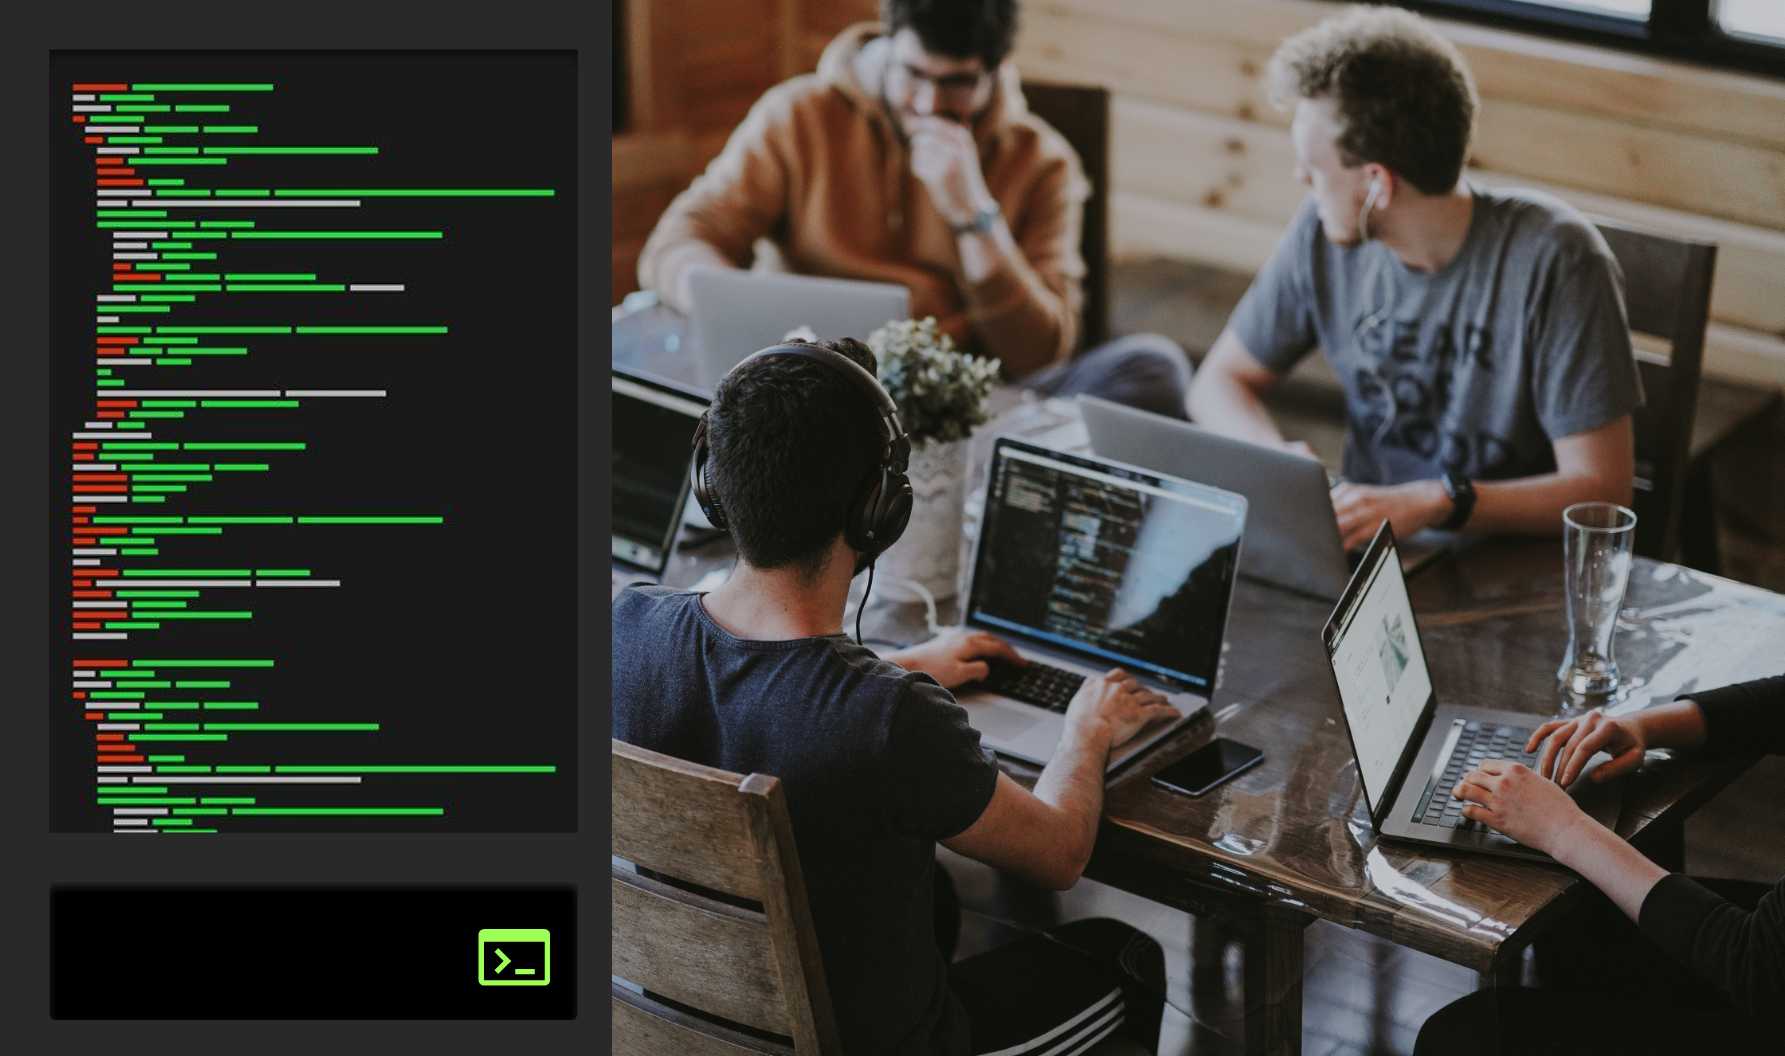
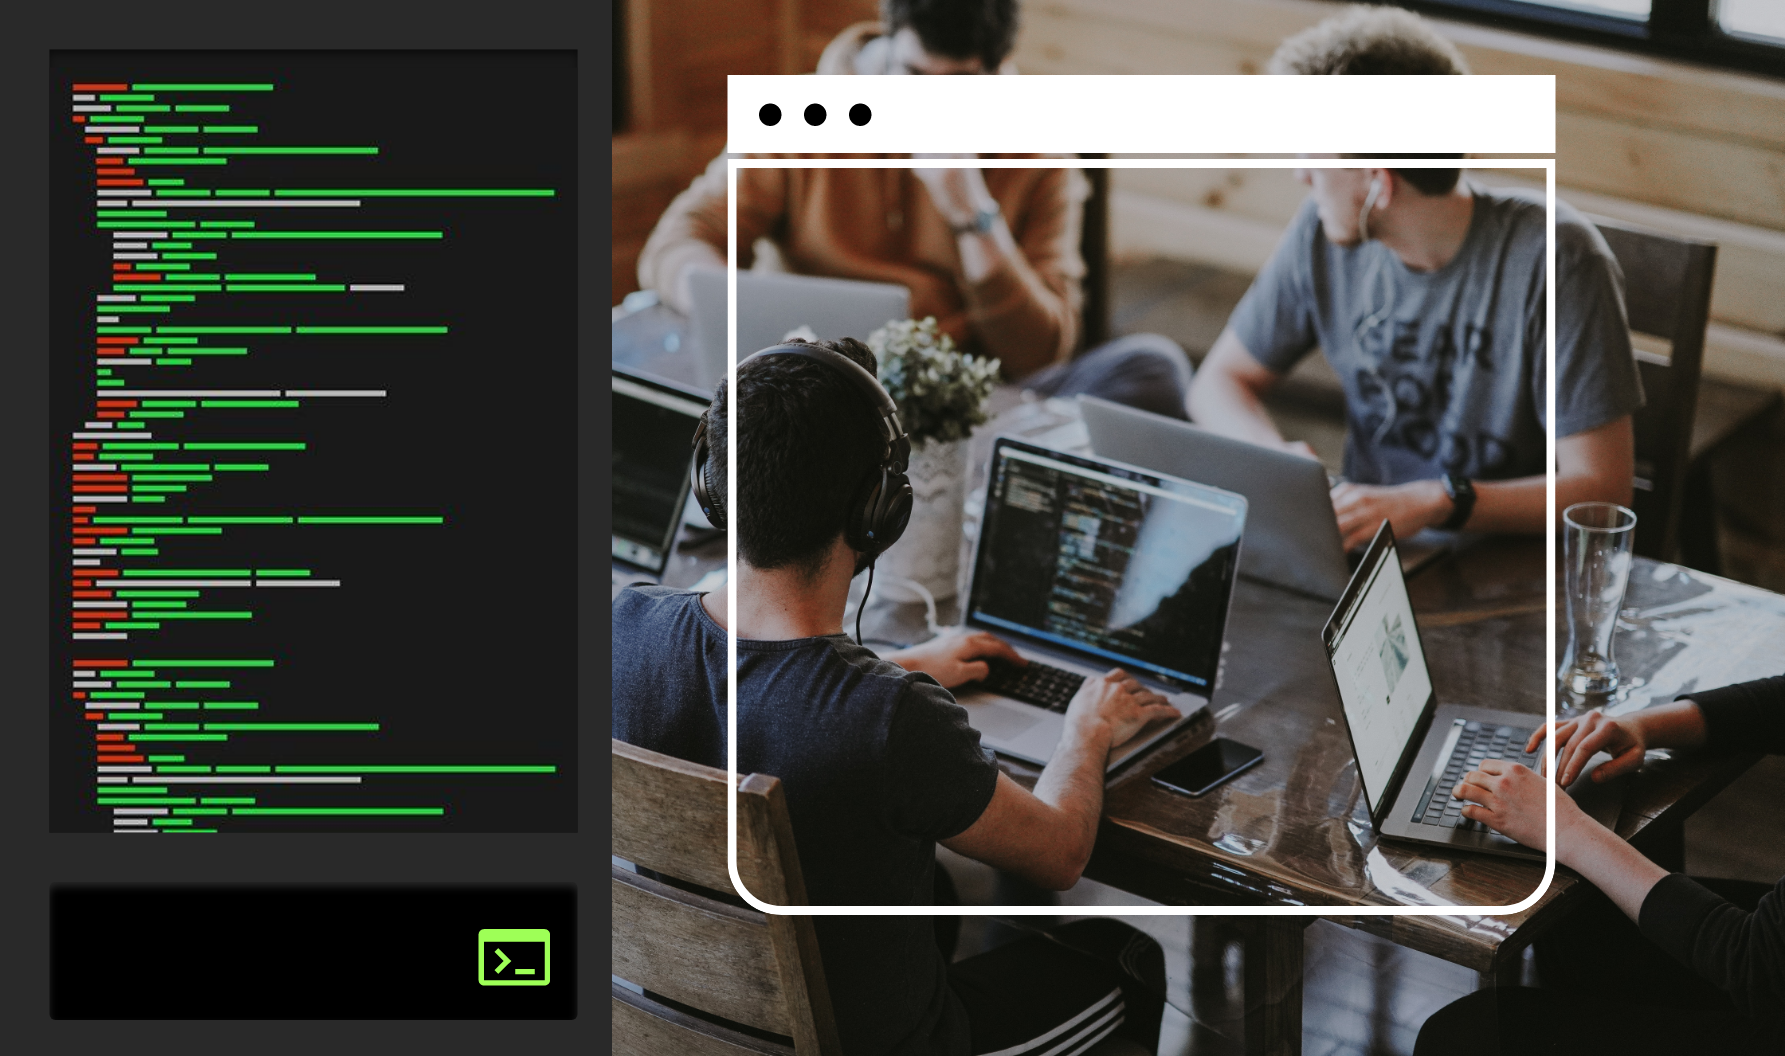
added new images and updated layout to the glados page

Changed region(s): [[0.4006, 0.0625, 0.8936, 0.875]]

diff --git a/glados-lib.html b/glados-lib.html
@@ -121,13 +121,8 @@
                 </div>
             </div>
             <div class="row d-flex align-items-center">
-                <div class="col-lg-12 pb-4 pt-4 text-white">
-                </div>
-                <div class="col-lg-6">
+                <div class="col-lg-12">
                     <img src="img/glados-img/glados_buttons.png" class="img-fluid pt-4" alt="...">
-                </div>
-                <div class="col-lg-6">
-                    <img src="img/glados-img/glados_desk-1.png" class="img-fluid pt-4" alt="...">
                 </div>
             </div>
             <div class="row">
